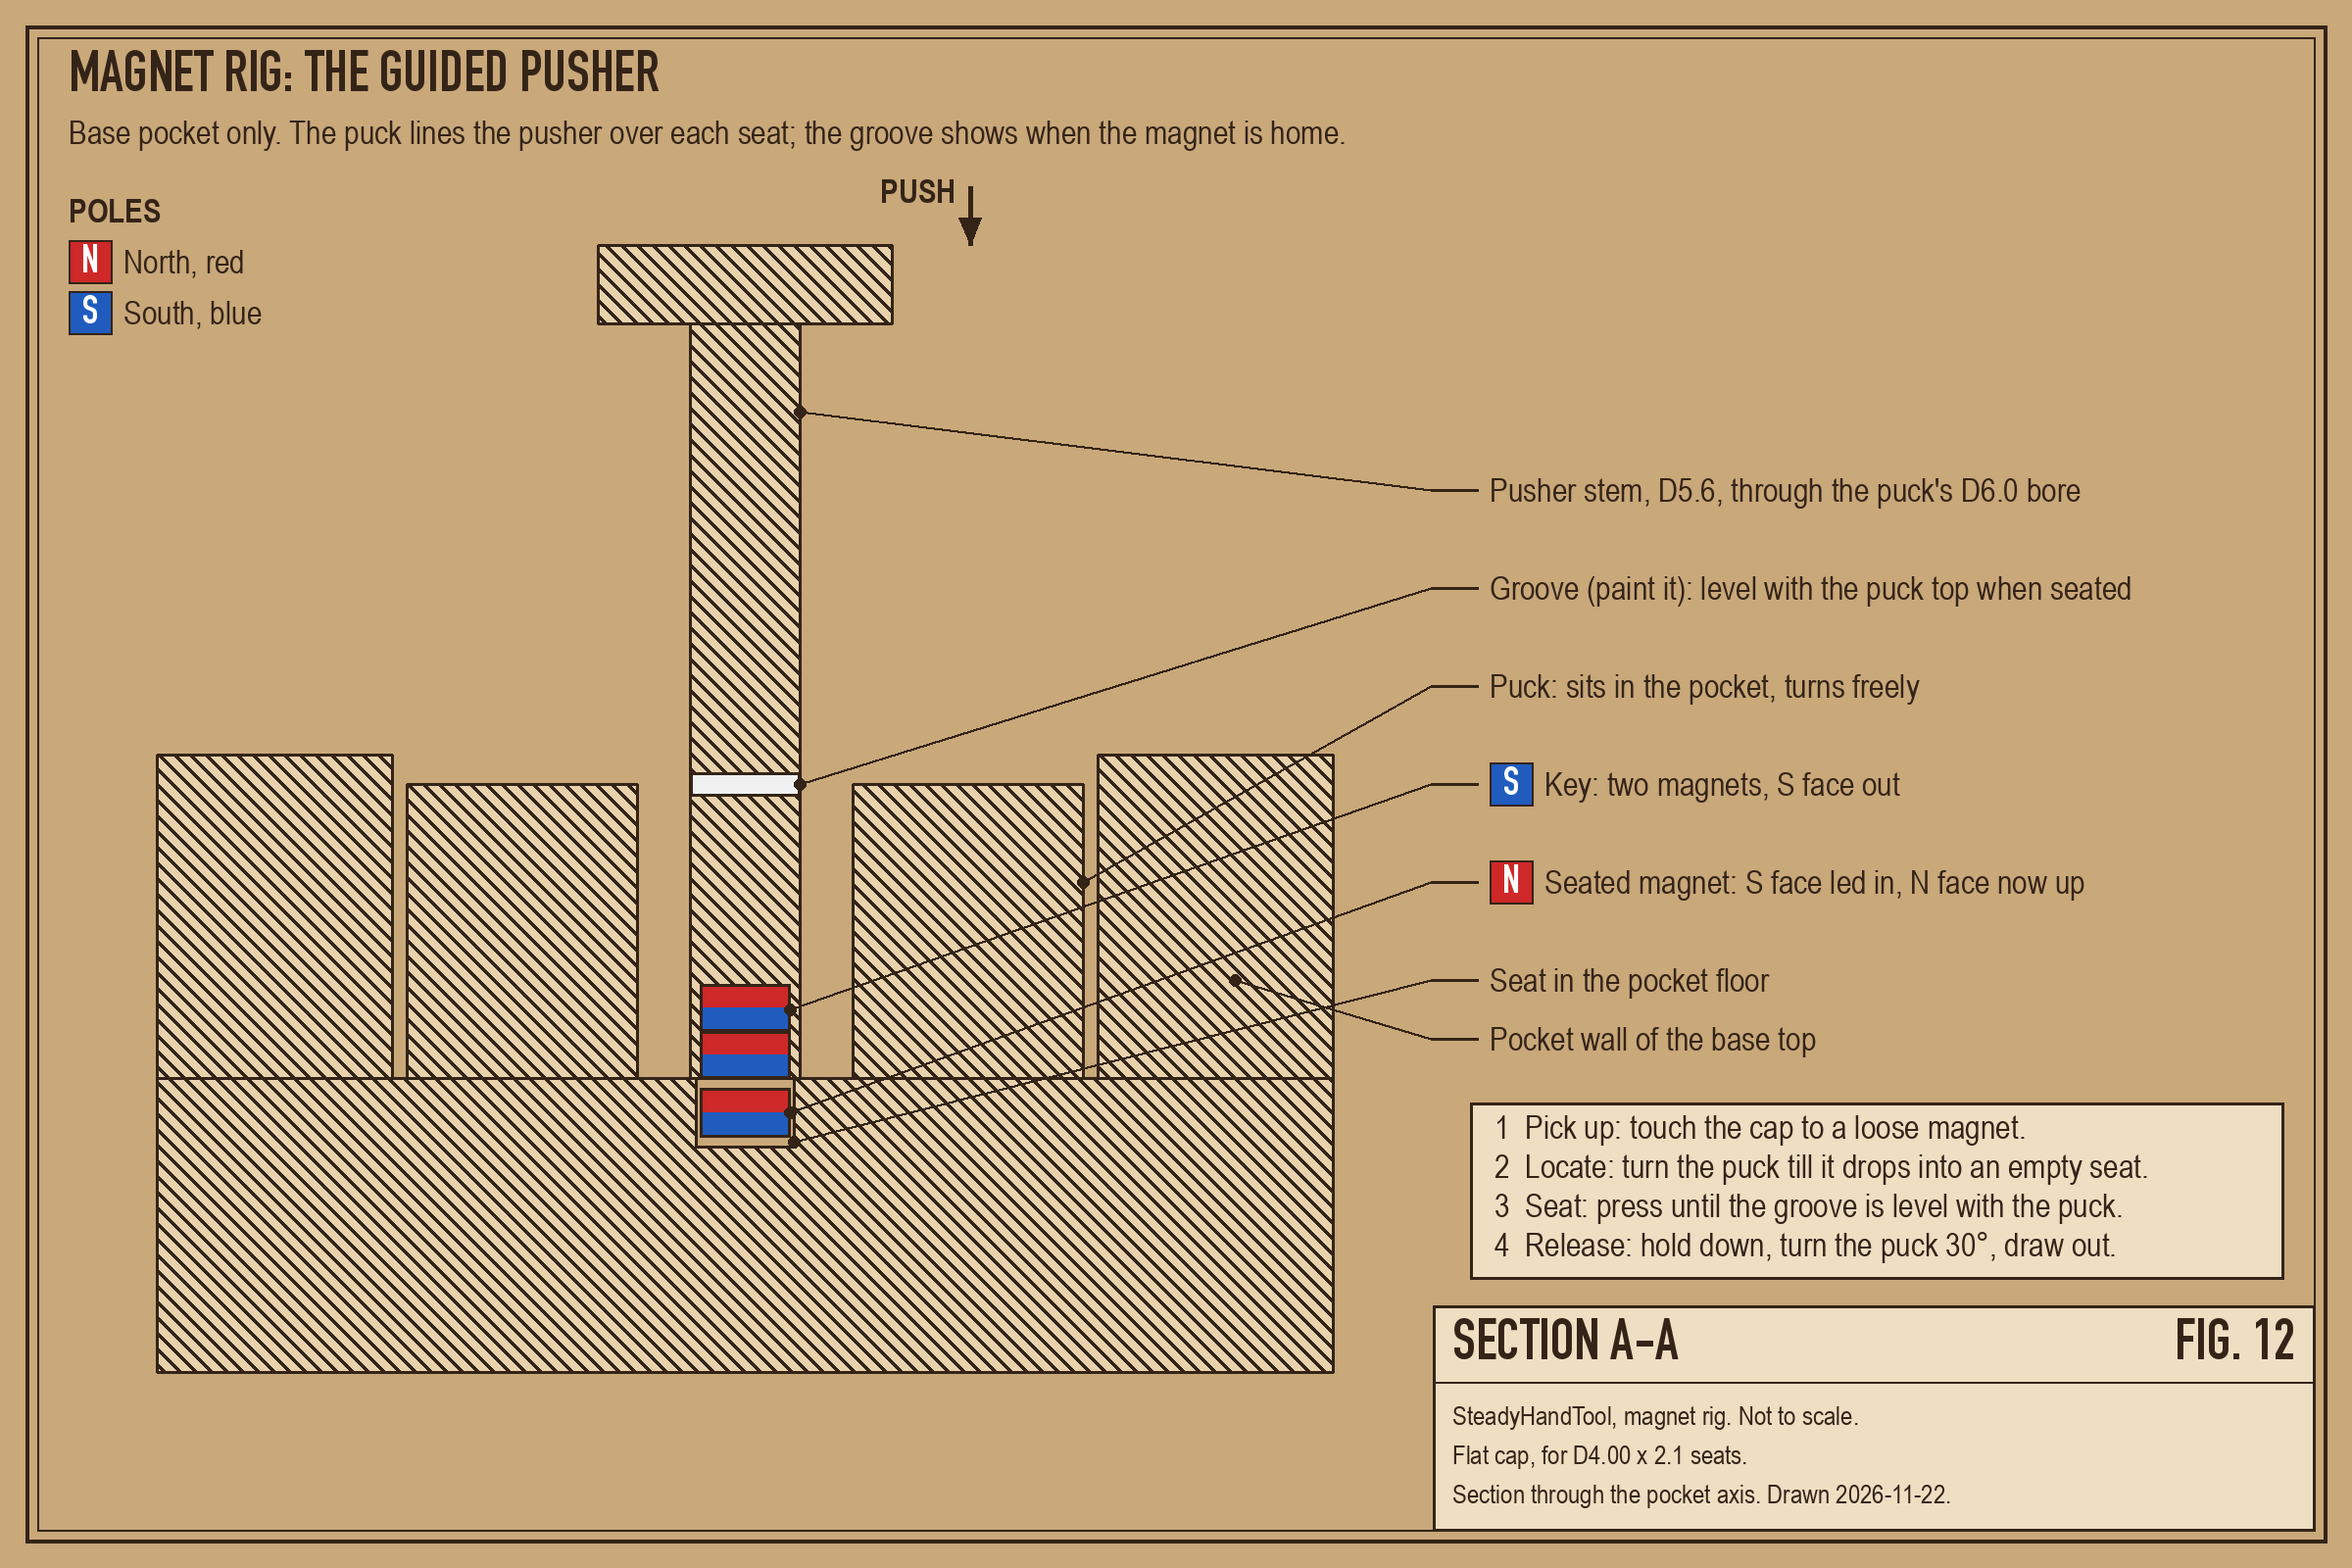
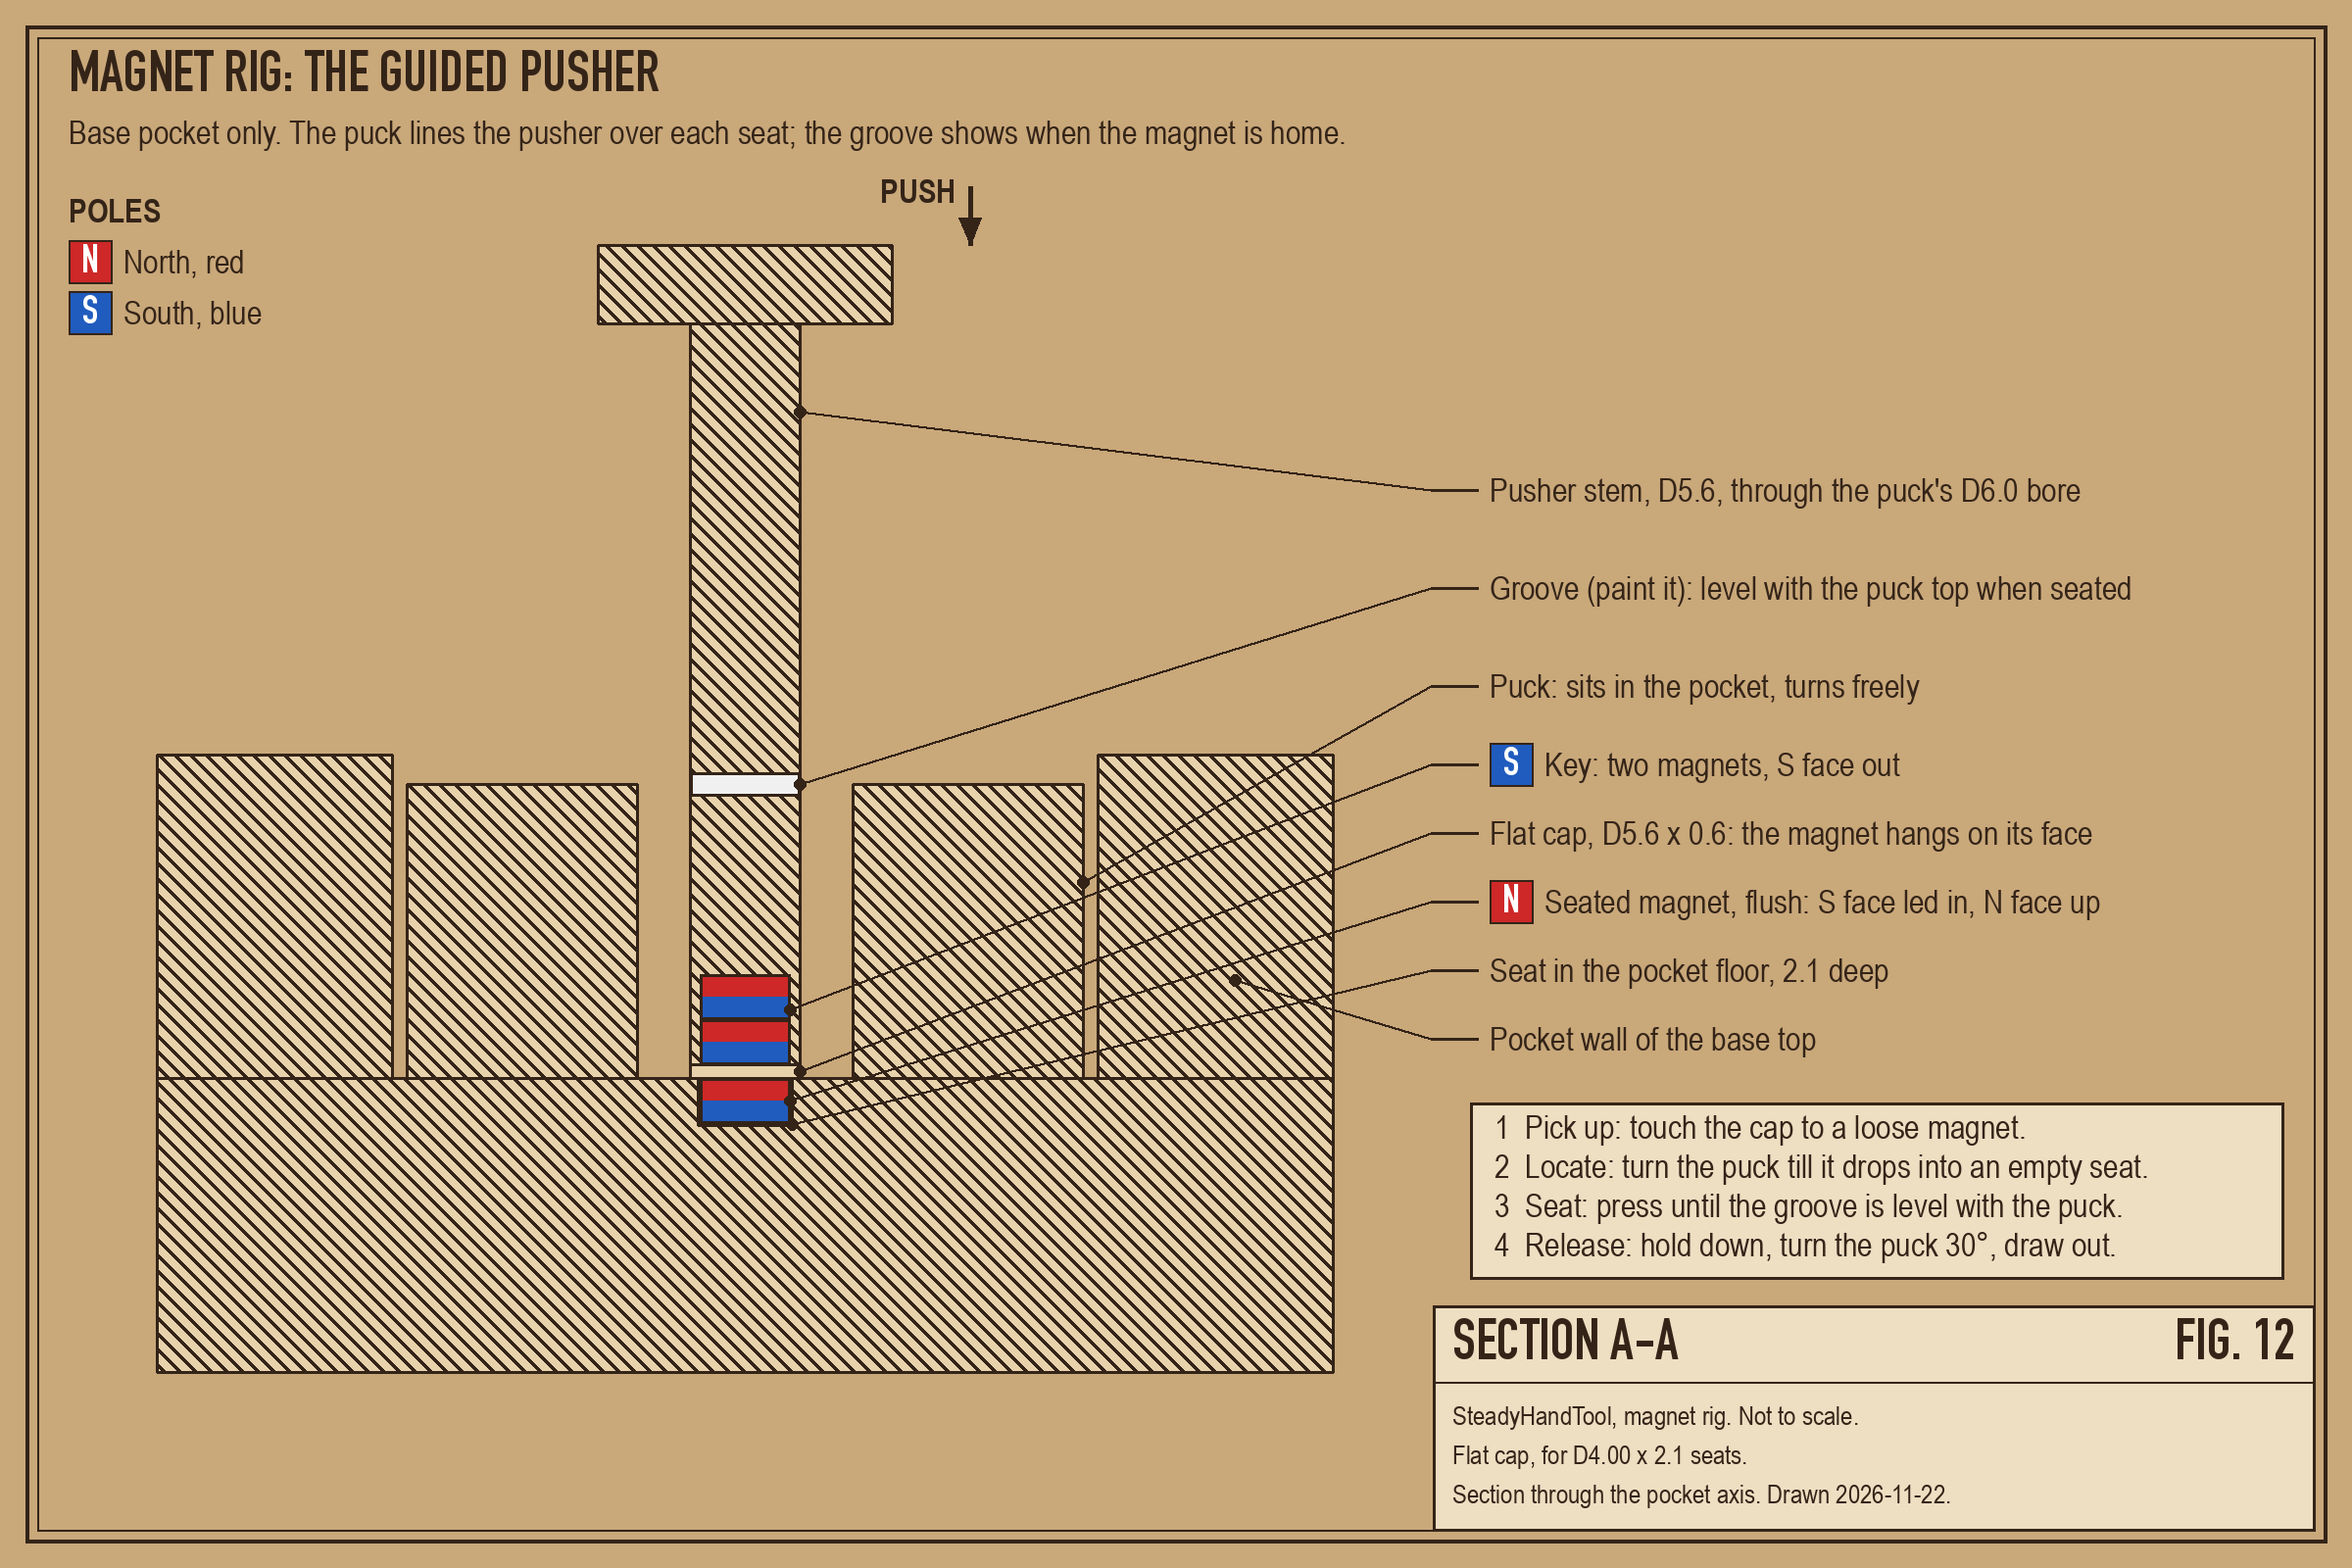
Update ring and rig figures, rename rig cap, plain BOM links
Redraw Figs. 9, 10, 15 and 20 from the interface ring with the 20 mm knurl
band; Fig. 15 shows the tool rod ending in the clamp, and Fig. 20 the current
base cup and top. Redraw Fig. 12 for the flat cap and the 2.1 mm seat, and
Fig. 21 for the renamed cap. Rename MagnetRigNoseCap.stl to MagnetRigCap.stl.
BOM: CERN-OHL-S-2.0 badge, plain product links, 785 g fill weight. README:
drop the empty step/ folder; Aligner is the horizontal stop.

Changed region(s): [[0.625, 0.4688, 0.9062, 0.6562], [0.2812, 0.625, 0.3438, 0.75]]

diff --git a/docs/BOM.md b/docs/BOM.md
@@ -3,22 +3,22 @@
 **A stabilizing pick-and-place arm for precision SMD assembly.**
 
 [![Project Status](https://img.shields.io/badge/Status-Open%20Source-green.svg)](https://halfmarble.com/blogs/news/steady-hand-tool)
-[![License: MIT](https://img.shields.io/badge/License-MIT-yellow.svg)](https://opensource.org/licenses/MIT)
+[![License: CERN-OHL-S-2.0](https://img.shields.io/badge/License-CERN--OHL--S--2.0-blue.svg)](../LICENSE)
 
 ---
 
 ## 🛒 Bill of Materials (BOM)
 
-The Steady Hand Tool is designed for easy sourcing. You can find the links and visual references for each component below (please notice that these are affiliate links).
+The Steady Hand Tool is designed for easy sourcing. You can find the links and visual references for each component below.
 
 ### 🏗 Structural Hardware
 
 | Image | Item | Specification | Purpose |
 | :---: | :--- | :--- | :--- |
-| <img src="images/rods.jpg" width="100"> | [**Carbon Fiber Rods**](https://a.co/d/083HcuZ3) | 8mm Diameter x 300mm | 2 horizontal rails, 1 vertical mast, 1 vertical tool rod. **4 required** |
-| <img src="images/bearings.jpg" width="100"> | [**MR128ZZ Bearings**](https://amzn.to/42kMWMD) | 8 x 12 x 3.5mm | Frictionless carriage movement. **14 required** |
-| <img src="images/magnets.jpg" width="100"> | [**Magnets**](https://amzn.to/4hq1puZ) | 4mm x 2mm Neodymium | Magnetic tool coupler interface. **Orientation matters** — see the [magnets guide](magnets.md). **102 required**, buy at least 120 |
-| <img src="images/weights.jpg" width="100"> | [**Steel balls**](https://a.co/d/01K52nNh) | 1/4 inch | Round steel shot, about **660 g** per base: fills the printed base to **785 g ± 10 g** with its 24 magnets seated. |
+| <img src="images/rods.jpg" width="100"> | [**Carbon Fiber Rods**](https://www.amazon.com/dp/B0CXP6992R) | 8mm Diameter x 300mm | 2 horizontal rails, 1 vertical mast, 1 vertical tool rod. **4 required** |
+| <img src="images/bearings.jpg" width="100"> | [**MR128ZZ Bearings**](https://www.amazon.com/dp/B075CM2XNJ) | 8 x 12 x 3.5mm | Frictionless carriage movement. **14 required** |
+| <img src="images/magnets.jpg" width="100"> | [**Magnets**](https://www.amazon.com/dp/B08NZS7WBK) | 4mm x 2mm Neodymium | Magnetic tool coupler interface. **Orientation matters** — see the [magnets guide](magnets.md). **102 required**, buy at least 120 |
+| <img src="images/weights.jpg" width="100"> | [**Steel balls**](https://www.amazon.com/dp/B00JZ18B1A) | 1/4 inch | Round steel shot, about **660 g** per base: fills the printed base to **785 g** with its 24 magnets seated. |
 
 **Magnet count, broken down:** 24 in the base (four tool pockets, six each), 24 in the four
 tool adapters (six each), 48 in the four interface rings (six on the bottom face and six on the
@@ -29,7 +29,7 @@ small, and one will find the floor.
 
 | Image | Item | Specification | Purpose |
 | :---: | :--- | :--- | :--- |
-| <img src="images/hardware-m3.jpg" width="100"> | [**M3 Hardware**](https://a.co/d/00OqDeqm) | Stainless steel. 39 x M3 16mm, 8 x M3 8mm, and 41 M3 nuts | Structural assembly of the arm and the base's rod clamp |
+| <img src="images/hardware-m3.jpg" width="100"> | [**M3 Hardware**](https://www.amazon.com/dp/B0F4XNN1T3) | Stainless steel. 39 x M3 16mm, 8 x M3 8mm, and 41 M3 nuts | Structural assembly of the arm and the base's rod clamp |
 
 Buy a few spares of each size. **One M3x16 and its nut go into the base**, where they close the
 clamp on the vertical mast; every other one goes into the arm. The step-by-step breakdown is in the
@@ -70,5 +70,5 @@ printed parts are in the [print list](print.md).
 
 | Image | Item | Specification | Purpose |
 | :---: | :--- | :--- | :--- |
-| <img src="images/tweezers.jpg" width="100"> | [**Reverse Tweezers**](https://www.amazon.com/dp/B07V8SLF2T?tag=halfmarble0f-20) | Reverse action (self-closing) — squeeze to open | Holding SMD parts during placement |
-| <img src="images/tools.jpg" width="100"> | [**Ball-Hex Drivers**](https://amzn.to/4jlawie) | Metric Allen Key Set | Recommended for assembly |
+| <img src="images/tweezers.jpg" width="100"> | [**Reverse Tweezers**](https://www.amazon.com/dp/B07V8SLF2T) | Reverse action (self-closing) — squeeze to open | Holding SMD parts during placement |
+| <img src="images/tools.jpg" width="100"> | [**Ball-Hex Drivers**](https://www.amazon.com/dp/B0021O1A1G) | Metric Allen Key Set | Recommended for assembly |

diff --git a/README.md b/README.md
@@ -61,8 +61,7 @@ steady-hand-tool/
 │   └── models/
 │       ├── stl/            # Printable parts and tool-head adapters
 │       ├── 3rdParty/       # Adapters for third-party tools (PixelPump)
-│       ├── 3mf/            # Print plates — orientation and slicer settings, not geometry
-│       └── step/           # CAD-fidelity parts (being added part by part)
+│       └── 3mf/            # Print plates — orientation and slicer settings, not geometry
 ├── docs/
 │   ├── assembly-guide.md   # Step-by-step build instructions
 │   ├── BOM.md              # Bill of Materials (the "Shopping List")
@@ -87,14 +86,14 @@ steady-hand-tool/
 | `Spacer.stl` | ✅ Published | The "fat" spacer — ⌀10.8 body on a ⌀8 spigot. One per bearing set (14 sets) |
 | `SpacerSmall.stl` | ✅ Published | The "thin" spacer, same three diameters. One per bearing set |
 | `Stopper.stl` | ✅ Published | Split clamp collar for an 8 mm rod, M3 cross screw |
-| `Aligner.stl` | ✅ Published | Alignment jig used during assembly |
+| `Aligner.stl` | ✅ Published | Horizontal stop |
 | `InterfaceRing.stl` | ✅ Published | The ring that interfaces with the tool head, with a knurled band round its neck, a knurled rim and a plain curved flare under the rim (assembly guide, Step 11) |
 | `PlateSteadyHandTool.stl` | ✅ Published | Name plate (Optional Step 13) |
 | `PlateHalfLogoMarble.stl` | ✅ Published | Logo plate (Optional Step 13) |
 | `InterfaceTweezers.stl`, `InterfaceManualVacuumPen.stl`, `InterfaceTemplate.stl` | ✅ Published | Tool heads. `InterfaceTemplate` is the blank to start your own from |
 | `MagnetPusherNBody.stl` and its two letters, `MagnetPusherSBody.stl` and its two letters, `MagnetPusherSleeve.stl` | ✅ Published | The two magnet pushers, N and S, and a tip sleeve for each: they seat each magnet with the right pole facing out ([magnets guide](docs/magnets.md)) |
 | `MagnetCouponMouthUp.stl`, `MagnetCouponMouthDown.stl` | ✅ Published | The two magnet coupons: print them first to check that your printer makes magnet seats that grip ([how to read them](docs/magnets.md#1-dial-in-your-printer-first-the-two-magnet-coupons)) |
-| `MagnetRigPuck.stl`, `MagnetRigPusher.stl`, `MagnetRigNoseCap.stl` | ✅ Published | The magnet rig: an optional guide for seating the base's tool-pocket magnets, not yet used on a printed base ([how to use it](docs/magnets.md#9-the-magnet-rig-the-bases-tool-pockets-guided)) |
+| `MagnetRigPuck.stl`, `MagnetRigPusher.stl`, `MagnetRigCap.stl` | ✅ Published | The magnet rig: an optional guide for seating the base's tool-pocket magnets, not yet used on a printed base ([how to use it](docs/magnets.md#9-the-magnet-rig-the-bases-tool-pockets-guided)) |
 | Horizontal cage | ⏳ On funding | Assembly guide, Steps 5–6 |
 | Vertical cage — three parts | ⏳ On funding | Steps 7–8 |
 | Base — printed cup and screw-in top | ⏳ On funding | Filled with steel shot to 785 g (Step 1) |

diff --git a/hardware/models/stl/README.md b/hardware/models/stl/README.md
@@ -10,7 +10,7 @@ list for everything you cannot print.
 | `Spacer.stl` | The "fat" spacer, ⌀10.8 body on a ⌀8 spigot. One per bearing set |
 | `SpacerSmall.stl` | The "thin" spacer, same three diameters. One per bearing set |
 | `Stopper.stl` | Split clamp collar for an 8 mm rod, M3 cross screw |
-| `Aligner.stl` | Alignment jig used during assembly |
+| `Aligner.stl` | Horizontal stop |
 | `InterfaceRing.stl` | The ring the tool head couples to, with a knurled band round its neck, a knurled rim and a plain curved flare under the rim (Step 11) |
 | `PlateSteadyHandTool.stl` | Name plate (Optional Step 13) |
 | `PlateHalfLogoMarble.stl` | Logo plate (Optional Step 13) |
@@ -21,7 +21,7 @@ list for everything you cannot print.
 | `MagnetPusherSBody.stl`, `MagnetPusherSLetterFront.stl`, `MagnetPusherSLetterBack.stl` | The **S** magnet pusher: body and its two inlay letters (blue). Seats magnets south face out — tool heads, ring top faces |
 | `MagnetPusherSleeve.stl` | Sleeve for a pusher's tip: print two, one for each pusher. How to use them: the [magnets guide](../../../docs/magnets.md) |
 | `MagnetCouponMouthUp.stl`, `MagnetCouponMouthDown.stl` | The two magnet coupons: 25 magnet seats each, ⌀3.70 to ⌀4.18 mm, to check how your printer prints the ⌀4 seats before you print the parts. How to read them: the [magnets guide](../../../docs/magnets.md#1-dial-in-your-printer-first-the-two-magnet-coupons) |
-| `MagnetRigPuck.stl`, `MagnetRigPusher.stl`, `MagnetRigNoseCap.stl` | The magnet rig: a puck that sits in a base tool pocket, a pusher and its flat cap. An optional guide for seating the base's magnets, not yet used on a printed base. How to use it: the [magnet rig](../../../docs/magnets.md#9-the-magnet-rig-the-bases-tool-pockets-guided) |
+| `MagnetRigPuck.stl`, `MagnetRigPusher.stl`, `MagnetRigCap.stl` | The magnet rig: a puck that sits in a base tool pocket, a pusher and its flat cap. An optional guide for seating the base's magnets, not yet used on a printed base. How to use it: the [magnet rig](../../../docs/magnets.md#9-the-magnet-rig-the-bases-tool-pockets-guided) |
 
 Adapters for third-party tools are one level up, in [`3rdParty/`](../3rdParty). Print plates, which
 carry orientation and slicer settings rather than geometry, are in [`3mf/`](../3mf).

diff --git a/docs/magnets.md b/docs/magnets.md
@@ -422,7 +422,7 @@ of this section. If it fails any part of it, seat the pockets with the N pusher 
 | :--- | :--- |
 | `MagnetRigPuck.stl` | Print flat, top face up. It is drawn ⌀26.90 for a pocket that prints ⌀27.2; step 9.1 fits it to yours |
 | `MagnetRigPusher.stl` | Print standing, hex handle on the bed. The pocket at the top of its ⌀5.6 stem prints open, with nothing to bridge |
-| `MagnetRigNoseCap.stl` | The cap: a flat ⌀5.6 × 0.6 mm plate. Print flat, glue face on the bed. It closes the pocket in the stem, and the magnet hangs on its face |
+| `MagnetRigCap.stl` | The cap: a flat ⌀5.6 × 0.6 mm plate. Print flat, glue face on the bed. It closes the pocket in the stem, and the magnet hangs on its face |
 | 6.0 mm drill bit | To open the puck's bore, turned by hand |
 | 2 magnets and 5-minute epoxy | The key in the pusher's stem: two more magnets on top of the kit's |
 | Compass | The reference for the key's pole, as in section 4 |
